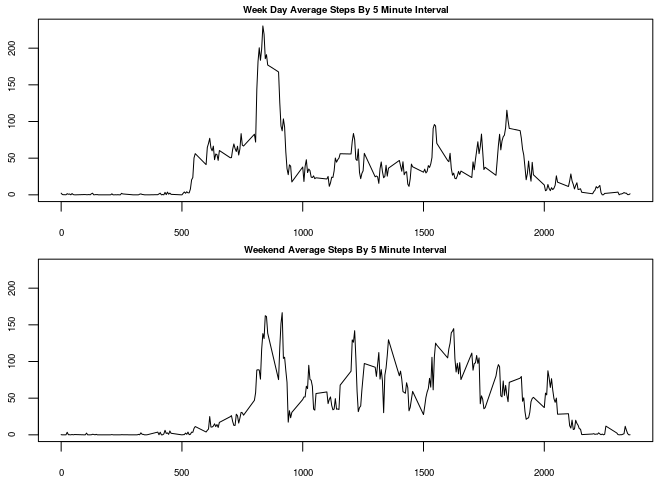
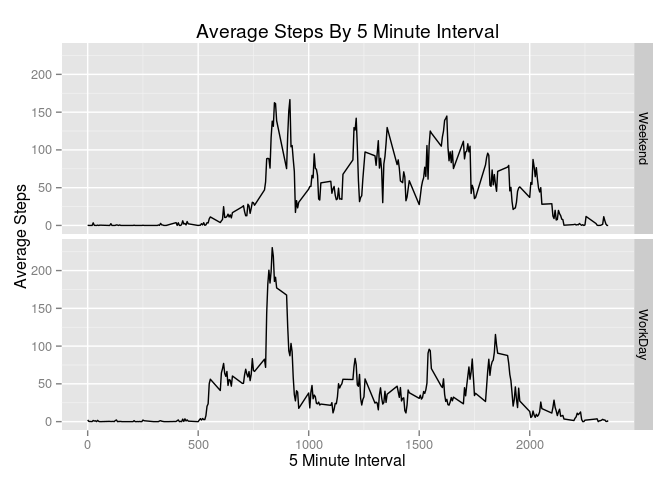
changed final plot from base to ggplot2

diff --git a/PA1_template.html b/PA1_template.html
@@ -78,7 +78,7 @@ dfStep_data &lt;- read.csv(chrFile_read)</code></pre>
 <pre class="r"><code># Calculate the total number of steps per day(first form of tapply causes problems so is commented out)
 #numSteps_day = tapply(dfStep_data$steps,dfStep_data$date,FUN=sum,na.rm=TRUE)
 numSteps_day = tapply(dfStep_data$steps,dfStep_data$date,FUN=sum)
-# Generate the new mean &amp; median  steps per day
+# Generate the new mean &amp; median  steps per day, ready to be inserted inline in commentary
 numSteps_mean &lt;- as.integer(mean(numSteps_day, na.rm=TRUE))
 numSteps_median &lt;- as.integer(median(numSteps_day, na.rm=TRUE))
 # Then plot a histogram
@@ -117,7 +117,7 @@ for (i in 1:length(numAve_steps_interval)){
                               is.na(dfStep_data_imp$steps)] &lt;- round(numAve_steps_interval[i],0)
 }
 
-# Generate the new mean &amp; median  steps per day
+# Generate the new mean &amp; median  steps per day, ready to be inserted inline in commentary
 numSteps_day_imp = tapply(dfStep_data_imp$steps,dfStep_data_imp$date,FUN=sum,na.rm=TRUE)
 numSteps_mean_imp &lt;- as.integer(mean(numSteps_day_imp, na.rm=TRUE))
 numSteps_median_imp &lt;- as.integer(median(numSteps_day_imp, na.rm=TRUE))
@@ -138,25 +138,22 @@ hist(numSteps_day_imp,20,
 # Start by categorising days as either weekday or weekend
 library(lubridate, warn.conflicts=FALSE)  # Date handling, myd function
 dfStep_data_imp$day_type &lt;- rep(&quot;WorkDay&quot;,length(dfStep_data_imp$date))
-dfStep_data_imp$day_type[weekdays(ymd(as.character(dfStep_data_imp$date))) %in% c(&quot;Saturday&quot;,&quot;Sunday&quot;)] &lt;- &quot;Weekend&quot;
+dfStep_data_imp$day_type[weekdays(ymd(as.character(dfStep_data_imp$date)))
+                         %in% c(&quot;Saturday&quot;,&quot;Sunday&quot;)] &lt;- &quot;Weekend&quot;
 dfStep_data_imp$day_type &lt;- as.factor(dfStep_data_imp$day_type)
 # Create the data to be used for plots, a summary of steps by day-type and 5-minute-interval
 library(&quot;data.table&quot;, warn.conflicts=FALSE)    # Data table handling, for Aggregate function
 numAve_steps_interval_imp &lt;- tapply(dfStep_data_imp$steps,dfStep_data_imp$interval,FUN=mean,na.rm=TRUE)
 dfPlot_final &lt;- aggregate.data.frame(dfStep_data_imp$steps,  
-                                     list(dfStep_data_imp$interval, dfStep_data_imp$day_type), FUN=mean)
+                        list(dfStep_data_imp$interval, dfStep_data_imp$day_type), FUN=mean)
 names(dfPlot_final) &lt;- c(&quot;interval&quot;,&quot;day_type&quot;,&quot;AveSteps&quot;)
-# Create the plot (2 plots side by side)
-#par(mar=c(2,2,5,1),mfrow=c(1,2),cex.main=0.6,cex.lab=0.6,cex.axis=0.6)
-par(mar=c(2,2,1,1),mfcol=c(2,1),cex.main=0.6,cex.lab=0.6,cex.axis=0.6)
-numYrange &lt;-range(0,dfPlot_final$AveSteps) # Set max Y value - for easier comparison
-plot(levels(as.factor(dfPlot_final$interval)), dfPlot_final$AveSteps[dfPlot_final$day_type==&quot;WorkDay&quot;],
-     ylim=numYrange, main=&quot;Week Day Average Steps By 5 Minute Interval&quot;,
-     xlab=&quot;5 Minute Interval&quot;, ylab=&quot;Average Steps&quot;, type=&quot;l&quot;)
-plot(levels(as.factor(dfPlot_final$interval)), dfPlot_final$AveSteps[dfPlot_final$day_type==&quot;Weekend&quot;],
-     ylim=numYrange, main=&quot;Weekend Average Steps By 5 Minute Interval&quot;,
-     xlab=&quot;5 Minute Interval&quot;, ylab=&quot;Average Steps&quot;, type=&quot;l&quot;)</code></pre>
[1 lines of base64/hex data omitted]
+# Create the plot (2 plots one above the other)
+library(ggplot2, warn.conflicts=FALSE)  # Plotting
+qp &lt;- qplot(interval, AveSteps, data=dfPlot_final,facets=day_type ~ .,geom=&quot;line&quot;,
+            main=&quot;Average Steps By 5 Minute Interval&quot;,
+            xlab=&quot;5 Minute Interval&quot;,ylab=&quot;Average Steps&quot;)
+print (qp)</code></pre>
[1 lines of base64/hex data omitted]
 <p>as can be seen from the graphs above -<br />1) There’s a major activity peak on weekday mornings which is delayed and moderated on a weekend<br />2) Weekend activity starts later, is more evenly distributed through the day and continues a little longer into the evening</p>
 </div>
 

diff --git a/PA1_template.md b/PA1_template.md
@@ -17,7 +17,7 @@ dfStep_data <- read.csv(chrFile_read)
 # Calculate the total number of steps per day(first form of tapply causes problems so is commented out)
 #numSteps_day = tapply(dfStep_data$steps,dfStep_data$date,FUN=sum,na.rm=TRUE)
 numSteps_day = tapply(dfStep_data$steps,dfStep_data$date,FUN=sum)
-# Generate the new mean & median  steps per day
+# Generate the new mean & median  steps per day, ready to be inserted inline in commentary
 numSteps_mean <- as.integer(mean(numSteps_day, na.rm=TRUE))
 numSteps_median <- as.integer(median(numSteps_day, na.rm=TRUE))
 # Then plot a histogram
@@ -69,7 +69,7 @@ for (i in 1:length(numAve_steps_interval)){
                               is.na(dfStep_data_imp$steps)] <- round(numAve_steps_interval[i],0)
 }
 
-# Generate the new mean & median  steps per day
+# Generate the new mean & median  steps per day, ready to be inserted inline in commentary
 numSteps_day_imp = tapply(dfStep_data_imp$steps,dfStep_data_imp$date,FUN=sum,na.rm=TRUE)
 numSteps_mean_imp <- as.integer(mean(numSteps_day_imp, na.rm=TRUE))
 numSteps_median_imp <- as.integer(median(numSteps_day_imp, na.rm=TRUE))
@@ -104,24 +104,21 @@ NOTE: Imputed data is
 # Start by categorising days as either weekday or weekend
 library(lubridate, warn.conflicts=FALSE)  # Date handling, myd function
 dfStep_data_imp$day_type <- rep("WorkDay",length(dfStep_data_imp$date))
-dfStep_data_imp$day_type[weekdays(ymd(as.character(dfStep_data_imp$date))) %in% c("Saturday","Sunday")] <- "Weekend"
+dfStep_data_imp$day_type[weekdays(ymd(as.character(dfStep_data_imp$date)))
+                         %in% c("Saturday","Sunday")] <- "Weekend"
 dfStep_data_imp$day_type <- as.factor(dfStep_data_imp$day_type)
 # Create the data to be used for plots, a summary of steps by day-type and 5-minute-interval
 library("data.table", warn.conflicts=FALSE)    # Data table handling, for Aggregate function
 numAve_steps_interval_imp <- tapply(dfStep_data_imp$steps,dfStep_data_imp$interval,FUN=mean,na.rm=TRUE)
 dfPlot_final <- aggregate.data.frame(dfStep_data_imp$steps,  
-                                     list(dfStep_data_imp$interval, dfStep_data_imp$day_type), FUN=mean)
+                        list(dfStep_data_imp$interval, dfStep_data_imp$day_type), FUN=mean)
 names(dfPlot_final) <- c("interval","day_type","AveSteps")
-# Create the plot (2 plots side by side)
-#par(mar=c(2,2,5,1),mfrow=c(1,2),cex.main=0.6,cex.lab=0.6,cex.axis=0.6)
-par(mar=c(2,2,1,1),mfcol=c(2,1),cex.main=0.6,cex.lab=0.6,cex.axis=0.6)
-numYrange <-range(0,dfPlot_final$AveSteps) # Set max Y value - for easier comparison
-plot(levels(as.factor(dfPlot_final$interval)), dfPlot_final$AveSteps[dfPlot_final$day_type=="WorkDay"],
-     ylim=numYrange, main="Week Day Average Steps By 5 Minute Interval",
-     xlab="5 Minute Interval", ylab="Average Steps", type="l")
-plot(levels(as.factor(dfPlot_final$interval)), dfPlot_final$AveSteps[dfPlot_final$day_type=="Weekend"],
-     ylim=numYrange, main="Weekend Average Steps By 5 Minute Interval",
-     xlab="5 Minute Interval", ylab="Average Steps", type="l")
+# Create the plot (2 plots one above the other)
+library(ggplot2, warn.conflicts=FALSE)  # Plotting
+qp <- qplot(interval, AveSteps, data=dfPlot_final,facets=day_type ~ .,geom="line",
+            main="Average Steps By 5 Minute Interval",
+            xlab="5 Minute Interval",ylab="Average Steps")
+print (qp)
 ```
 
 ![](PA1_template_files/figure-html/weekdays_v_weekends-1.png)
